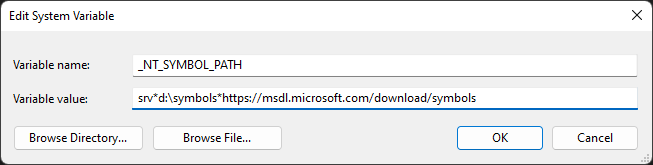
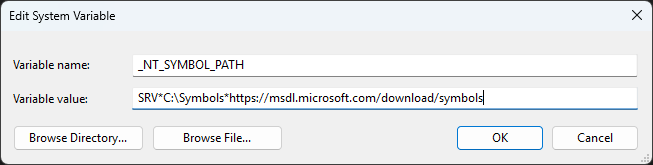
Update Symbol.md

Changed region(s): [[0.1838, 0.5455, 0.9801, 0.6667], [0.0, 0.0606, 0.1838, 0.1212], [0.245, 0.3636, 0.3982, 0.4242]]

diff --git a/Symbol.md b/Symbol.md
@@ -2,12 +2,12 @@
 **[디버그 심볼](https://en.wikipedia.org/wiki/Debug_symbol)**(debug symbol)은 이진 파일(대표적으로 실행 파일, 라이브러리 등)의 기계어를 소스 코드로 변환하여 나타낼 수 있는 정보이며, 이를 통해 컴파일된 원본 스크립트가 필요없이 내부를 들여다 볼 수 있다. 비록 심볼은 원본과 같은 완전한 소스 코드를 재구성하지 못하지만, 변수와 함수의 식별자 및 메모리상 위치하는 주소를 알아낼 수 있다.
 
 ## 윈도우 심볼
-마이크로소프트 [윈도우](Windows.md)는 관측할 수 있는 정보의 유형과 제약에 따라 심볼을 세 가지로 나눈다.
+[윈도우 OS](Windows.md)를 관측할 수 있는 정보의 유형과 제약에 따라 심볼을 세 가지로 나눈다.
 
 <table style="table-layout: fixed; width: 60%; margin-left: auto; margin-right: auto;"><caption style="caption-side: top;">윈도우 운영체제 <a href="https://learn.microsoft.com/en-us/windows-hardware/drivers/debugger/public-and-private-symbols">심볼 종류</a></caption><colgroup><col style="width: 30%;"/></col style="width: 70%;"/></colgroup><thead><tr><th style="text-align: center;">심볼</th><th style="text-align: center;">관측 가능한 데이터</th></tr></thead><tbody><tr><td style="text-align: center;">Export</td><td><ul><li>함수 (export 테이블 한정)</li></ul><sub>서버: N/A</sub></td></tr><tr><td style="text-align: center;">Public</td><td><ul><li>함수 (비정적 한정)</li><li>전역 변수 (<code>extern</code> 한정)</li></ul><sub>서버: <code>https://msdl.microsoft.com/download/symbols</code></sub></td></tr><tr><td style="text-align: center;">Private</td><td><ul><li>함수</li><li>전역 변수</li><li>지역 변수</li><li>사용자 정의 구조체, 클래스, 그리고 자료형</li><li>소스 파일 정보: 파일명, 줄번호, 기타 등등</li></ul></td></tr></tbody></table>
 
 ### DbgHelp 라이브러리
-**[디버그 지원 라이브러리](https://learn.microsoft.com/en-us/windows/win32/debug/debug-help-library)**(debug help library), 일명 DbgHelp 라이브러리는 윈도우 NT 운영체제에서 구동되는 .exe 확장자의 실행 파일을 디버깅하는 데 도움을 주는 [루틴](ko.WinAPI)들을 제공한다. [Sysinternals](Sysinternals.md)를 포함한 일부 프로그램에서 [호출 스택](WinDbg.md#호출-스택) 정보를 보기위해 필요할 수 있으며 [윈도우 SDK](https://developer.microsoft.com/en-us/windows/downloads/windows-sdk/)와 함께 설치된다.
+**[디버그 지원 라이브러리](https://learn.microsoft.com/en-us/windows/win32/debug/debug-help-library)**(debug help library), 일명 DbgHelp 라이브러리는 윈도우 NT 운영체제에서 구동되는 .exe 확장자의 실행 파일을 디버깅하는 데 도움을 주는 [함수](WinAPI.md)들을 제공한다. [Sysinternals](Sysinternals.md)를 포함한 일부 프로그램에서 [호출 스택](WinDbg.md#호출-스택) 정보를 보기위해 필요할 수 있으며 [윈도우 SDK](https://developer.microsoft.com/en-us/windows/downloads/windows-sdk/)와 함께 설치된다.
 
 만일 64비트의 NT 버전 10 운영체제(즉, 윈도우 10 및 11)를 위한 DbgHelp 라이브러리는 다음 경로에 위치한다.
 
@@ -25,17 +25,21 @@
 
 사용자 및 커널 모드 어플리케이션을 디버깅하는데 심볼 파일이 위치한 경로를 지정하는 작업은 매우 중요하다. 디버거가 모듈 내부를 살펴보기 위해 필요한 심볼을 불러올 수 있도록 한다.
 
-* 심볼을 로컬에 캐싱하므로써 디버깅 성능 속도를 개선할 수 있다.
+심볼을 매번 불러오는 오버헤드를 최소화하기 위해 로컬에 캐싱하는 걸 권장한다.
 
 <table style="table-layout: fixed; width: 80%; margin-left: auto; margin-right: auto;"><caption style="caption-side: top;">심볼 캐싱 설정 구문</caption><colgroup><col style="width: 40%"/><col style="width: 60%"/></colgroup><thead><tr><th style="text-align: center;">구문</th><th style="text-align: center;">설명</th></tr></thead><tbody><tr><td><code>cache*;</code></td><td>세미콜론 우측에 기입된 주소로부터 불러온 심볼을 기본 로컬 캐시 경로에 저장한다.</td></tr><tr><td><code>cache*C:\Symbols;</code></td><td>세미콜론 우측에 기입된 주소로부터 불러온 심볼을 <code>C:\Symbols</code> 경로에 저장한다.</td></tr></tbody></table>
 
-* 심볼은 인터넷이나 사내망으로부터 심볼을 불러올 수 있다.
+인터넷이나 사내망으로부터 심볼을 불러올 서버 및 캐시 디렉토리를 지정할 수 있다.
 
 <table style="table-layout: fixed; width: 80%; margin-left: auto; margin-right: auto;"><caption style="caption-side: top;">심볼 서버 설정 구문</caption><colgroup><col style="width: 40%"/><col style="width: 60%"/></colgroup><thead><tr><th style="text-align: center;">구문</th><th style="text-align: center;">설명</th></tr></thead><tbody><tr><td><code>srv*</code></td><td>기본 심볼 서버로부터 필요한 심볼을 획득한다.</td></tr><tr><td><code>srv*https://example.com</code></td><td><code>https://example.com</code> 서버로부터 필요한 심볼을 획득한다.</td></tr><tr><td><code>srv*C:\Symbols*https://example.com</code></td><td><code>https://example.com</code> 서버로부터 필요한 심볼을 획득하여 <code>C:\Symbols</code> 경로에 캐싱한다.</td></tr></tbody></table>
 
-* 시스템 환경 변수 `_NT_SYMBOL_PATH`는 하나의 심볼 경로를 다른 디버거 프로그램에 동일하게 적용하는데 매우 유용하게 사용된다.
+시스템 환경 변수 `_NT_SYMBOL_PATH`는 하나의 심볼 경로를 다른 디버거 프로그램에 동일하게 적용하는데 매우 유용하게 사용된다. 아래는 환경 변수에 [윈도우 심볼](#윈도우-심볼)을 GUI 혹은 CLI로 지정하는 예시를 보여준다.
 
-    ![환경 변수 <code>_NT_SYMBOL_PATH</code>의 예시](/images/windbg_environment_symbol.png)
+![환경 변수 <code>_NT_SYMBOL_PATH</code>의 예시](./images/windbg_environment_symbol.png)
+
+```
+SETX _NT_SYMBOL_PATH SRV*C:\Symbols*https://msdl.microsoft.com/download/symbols
+```
 
 ## 심볼 검증
 > *출처: [SymChk - Windows drivers | Microsoft Learn](https://learn.microsoft.com/en-us/windows-hardware/drivers/debugger/symchk)*
@@ -44,7 +48,7 @@
 
 * `C:\Program Files (x86)\Windows Kits\10\Debuggers\x64`
 
-아래는 [ntoskrnl.exe](Kernel.md#nt-커널) 실행 파일에 대한 public 심볼을 다운로드 및 검사한다.
+아래는 [ntoskrnl.exe](Kernel.md#nt-커널) 실행 파일의 심볼을 다운로드 및 검사한다.
 
 ```cmd
 symchk "C:\Windows\System32\ntoskrnl.exe" /s SRV*C:\Symbols*https://msdl.microsoft.com/download/symbols
